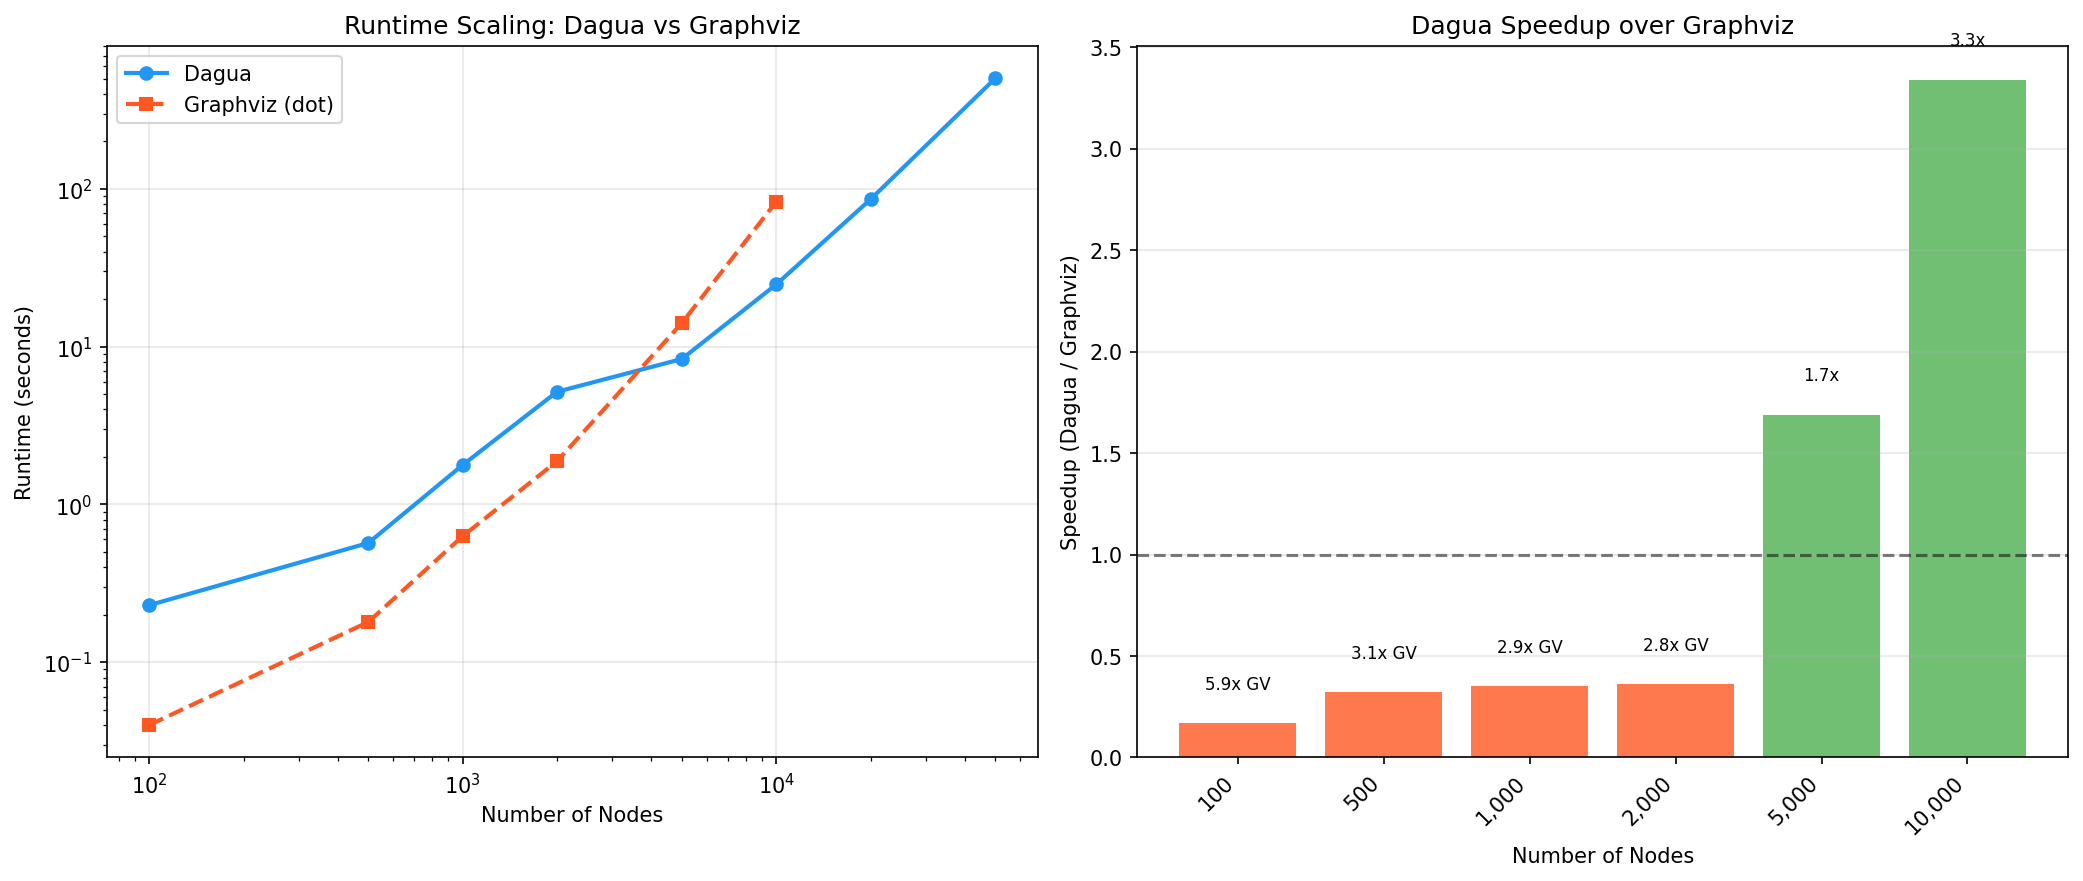
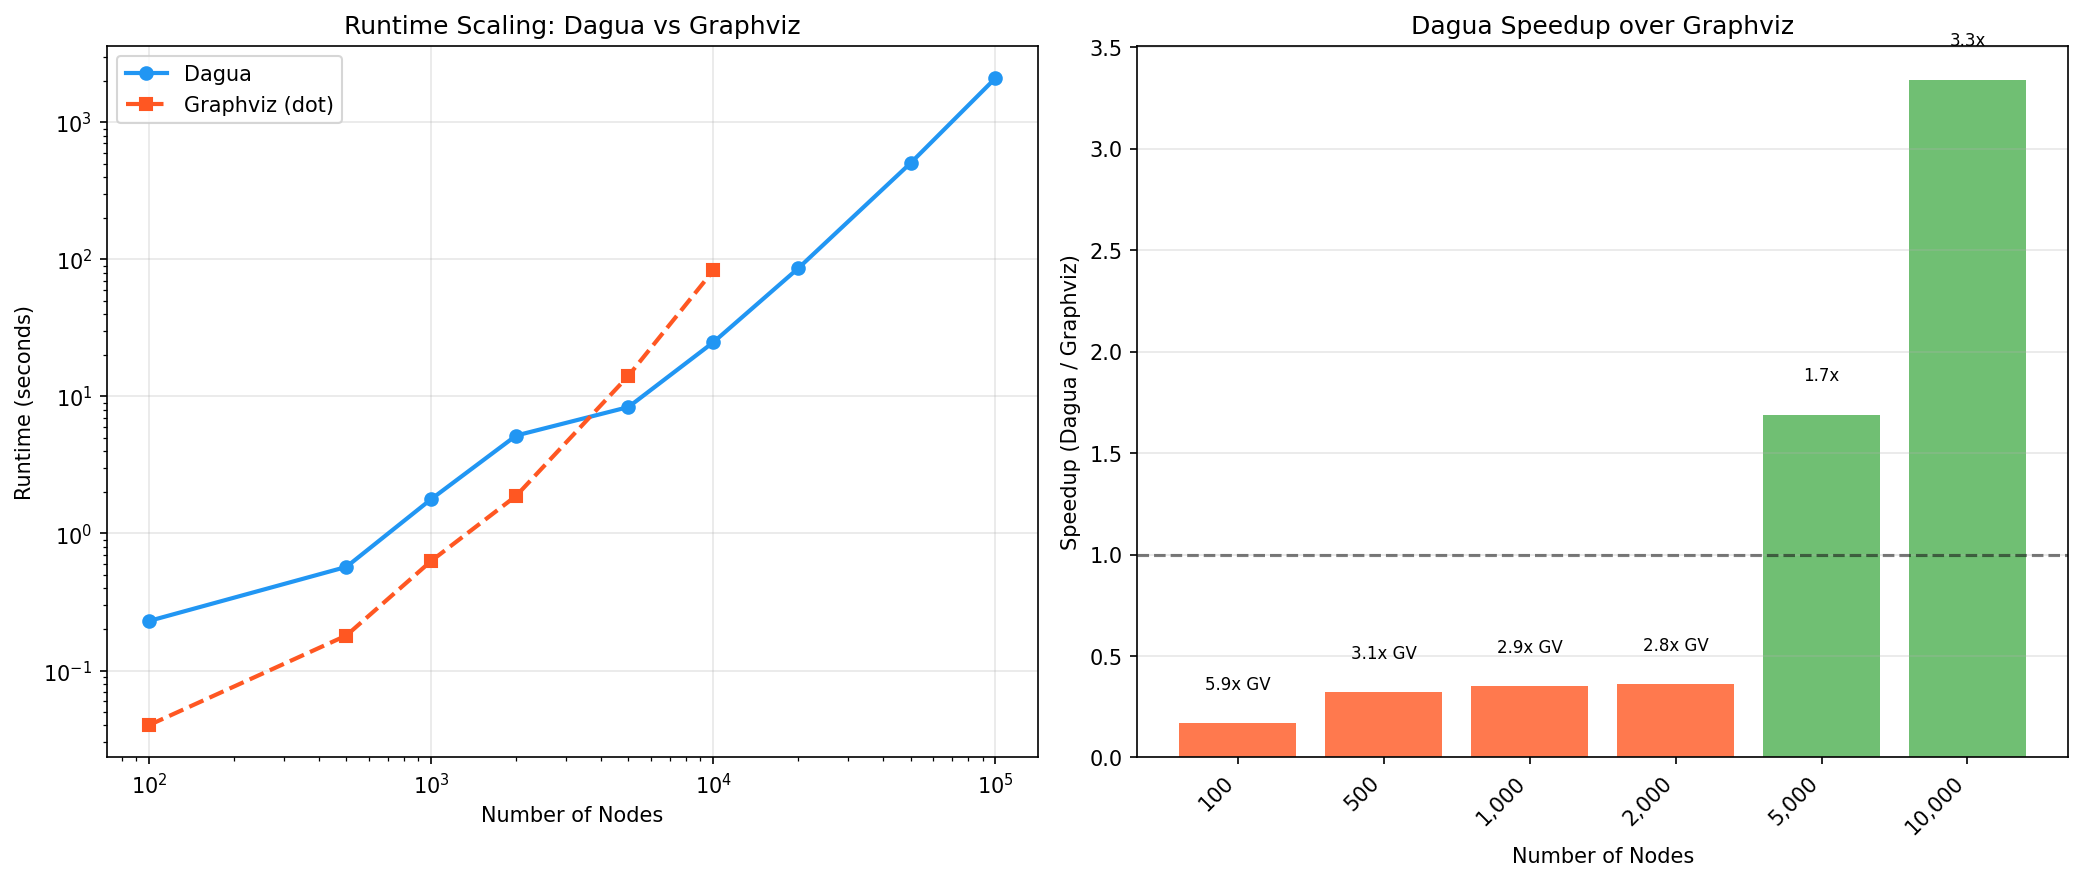
chore: add 100K node benchmark result (2096s on CPU, Graphviz N/A)

diff --git a/TODO.md b/TODO.md
@@ -14,10 +14,11 @@ Dagua vs Graphviz (dot engine), 50 optimization steps, CPU:
 | 10,000 | 15,000 | 24.81 | 82.88 | **Dagua (3.3x)** |
 | 20,000 | 30,000 | 86.02 | >300 (timeout) | **Dagua** |
 | 50,000 | 75,000 | 502.98 | >300 (timeout) | **Dagua** |
+| 100,000 | 150,000 | 2096.06 | N/A | **Dagua** |
 
 **Crossover point: ~3-4K nodes.** Above this, Dagua's O(N) grid-based algorithms
 outperform Graphviz's native C engine. At 20K+ nodes, Graphviz times out entirely
-while Dagua continues to run. Dagua handles 50K nodes in ~8 minutes on CPU.
+while Dagua continues to run. Dagua handles 50K nodes in ~8 min and 100K in ~35 min on CPU.
 
 ## Known Issues (fix before v0.1)
 
